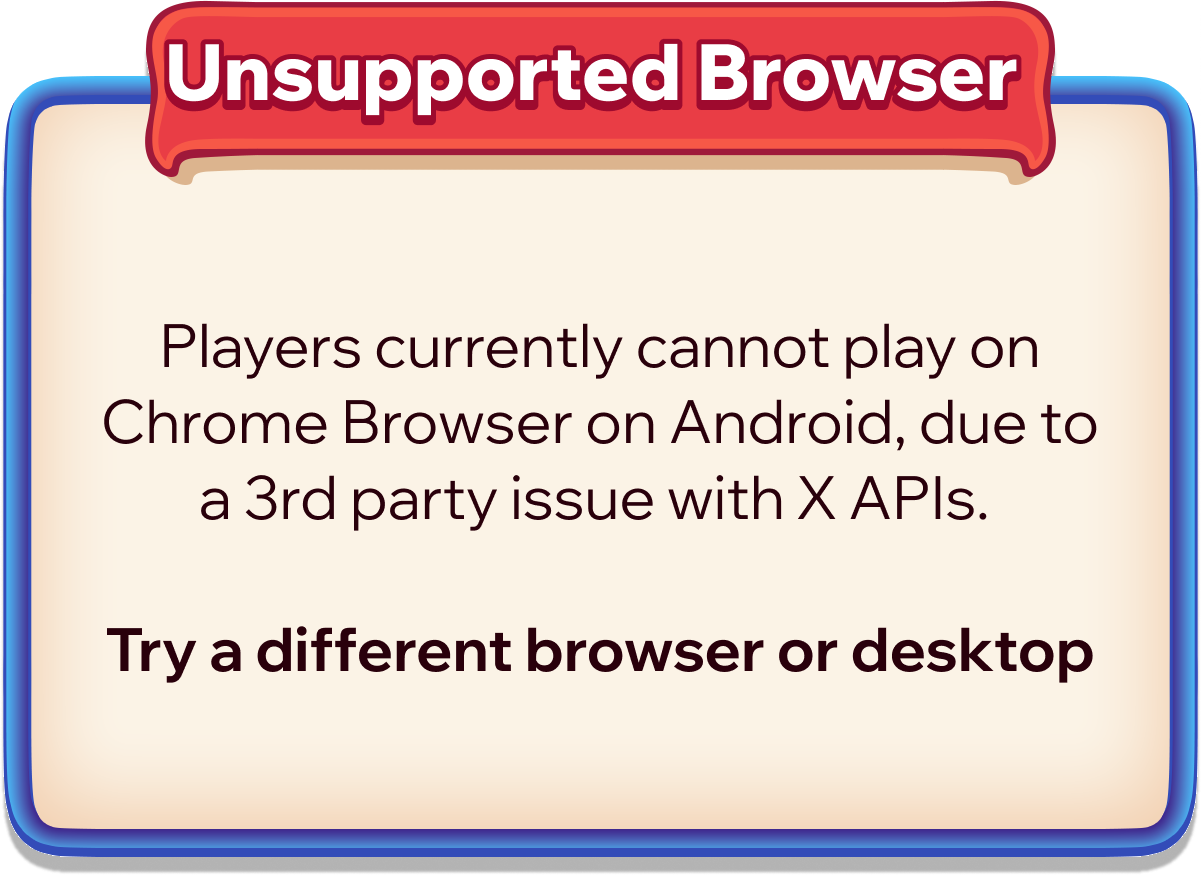
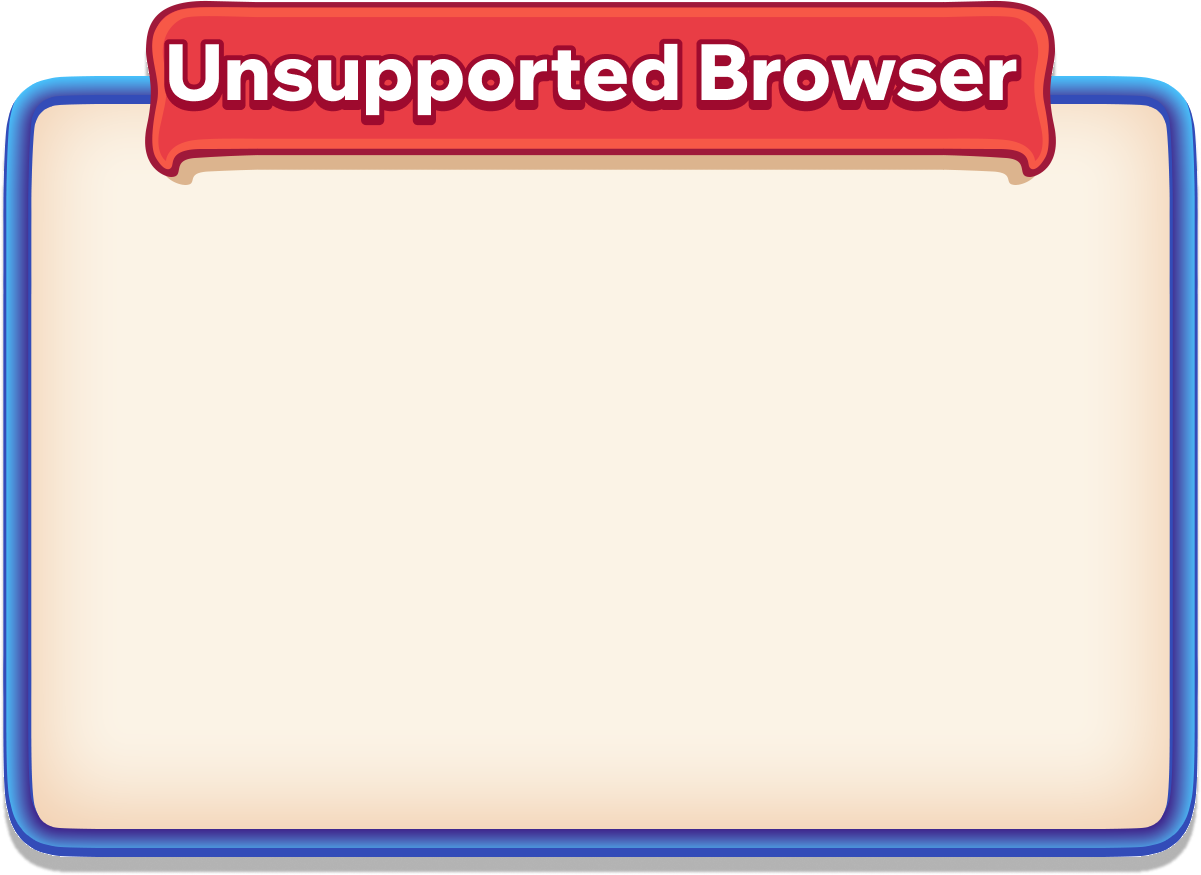
feat: block all chromium browser

diff --git a/app/src/components/InstallGuideModal.js b/app/src/components/InstallGuideModal.js
@@ -1,11 +1,12 @@
 import { useState } from 'react';
 import { useLocation } from 'react-router-dom';
-import { Box, alpha } from '@mui/material';
-import { isChrome } from 'react-device-detect';
+import { Box, Typography, alpha, useMediaQuery } from '@mui/material';
+import { isFirefox } from 'react-device-detect';
 
 import { getPWADisplayMode, getUserOS } from '../utils/pwa';
 
 const InstallGuideModal = () => {
+  const superXs = useMediaQuery('(max-width: 400px)');
   const { pathname } = useLocation();
   const [deviceInfo, setDeviceInfo] = useState({
     displayMode: getPWADisplayMode(),
@@ -15,7 +16,7 @@ const InstallGuideModal = () => {
   const open =
     !pathname.startsWith('/deposit') &&
     deviceInfo.displayMode === 'browser' &&
-    (deviceInfo.os === 'iOS' || (deviceInfo.os === 'Android' && isChrome));
+    (deviceInfo.os === 'iOS' || (deviceInfo.os === 'Android' && !isFirefox));
 
   if (!open) return null;
 
@@ -51,7 +52,41 @@ const InstallGuideModal = () => {
         alignItems="center"
         justifyContent="center"
         sx={{ '& img': { maxWidth: '80vw', maxHeight: '80vh' } }}>
-        <img src="/images/unsupported-browser-android.png" alt="unsupported-browser-android" />
+        <Box position="relative">
+          <img src="/images/unsupported-browser-android.png" alt="unsupported-browser-android" />
+          <Box
+            position="absolute"
+            top={0}
+            left={0}
+            width="100%"
+            height="100%"
+            p={3}
+            pt={4}
+            display="flex"
+            flexDirection="column"
+            justifyContent="center"
+            gap={2}>
+            <Typography
+              align="center"
+              fontSize={superXs ? 14 : { xs: 16, sm: 20, md: 32 }}
+              fontFamily="WixMadeforDisplay">
+              Players currently cannot play on Chromium Browsers, due to a 3rd party issue with X APIs.
+            </Typography>
+            <Typography
+              align="center"
+              fontSize={superXs ? 14 : { xs: 16, sm: 20, md: 32 }}
+              fontFamily="WixMadeforDisplaySemiBold">
+              We recommend desktop or{' '}
+              <span
+                style={{ textDecoration: 'underline', fontFamily: 'WixMadeforDisplaySemiBold', fontWeight: 600 }}
+                onClick={() =>
+                  window.open('https://play.google.com/store/apps/details?id=org.mozilla.firefox&hl=en', '_blank')
+                }>
+                Firefox
+              </span>
+            </Typography>
+          </Box>
+        </Box>
       </Box>
     );
 

diff --git a/app/src/components/UpdateDetectedModal.js b/app/src/components/UpdateDetectedModal.js
@@ -4,7 +4,7 @@ import HighlightOffRoundedIcon from '@mui/icons-material/HighlightOffRounded';
 import useModalStore from '../stores/modal.store';
 import useSystemStore from '../stores/system.store';
 
-import { isChrome } from 'react-device-detect';
+import { isFirefox } from 'react-device-detect';
 
 import { getUserOS } from '../utils/pwa';
 import { useState } from 'react';
@@ -27,7 +27,7 @@ const UpdateDetectedModal = () => {
     <Dialog
       maxWidth="sm"
       fullWidth
-      open={(openUpdate && !(os === 'Android' && isChrome)) ?? false}
+      open={(openUpdate && !(os === 'Android' && !isFirefox)) ?? false}
       onClose={() => {}}
       PaperProps={{
         sx: { borderRadius: 4 },

diff --git a/app/src/pages/Login/index.js b/app/src/pages/Login/index.js
@@ -4,7 +4,7 @@ import { usePrivy } from '@privy-io/react-auth';
 import * as Sentry from '@sentry/react';
 
 import { getPWADisplayMode, getUserOS } from '../../utils/pwa';
-import { isChrome } from 'react-device-detect';
+import { isFirefox } from 'react-device-detect';
 
 const delay = (ms) => new Promise((resolve) => setTimeout(resolve, ms));
 const Login = () => {
@@ -65,7 +65,7 @@ const Login = () => {
         }}
       />
       <Box
-        visibility={isChrome && isAndroid ? 'hidden' : 'visible'}
+        visibility={!isFirefox && isAndroid ? 'hidden' : 'visible'}
         minHeight="100vh"
         p={2}
         display="flex"
